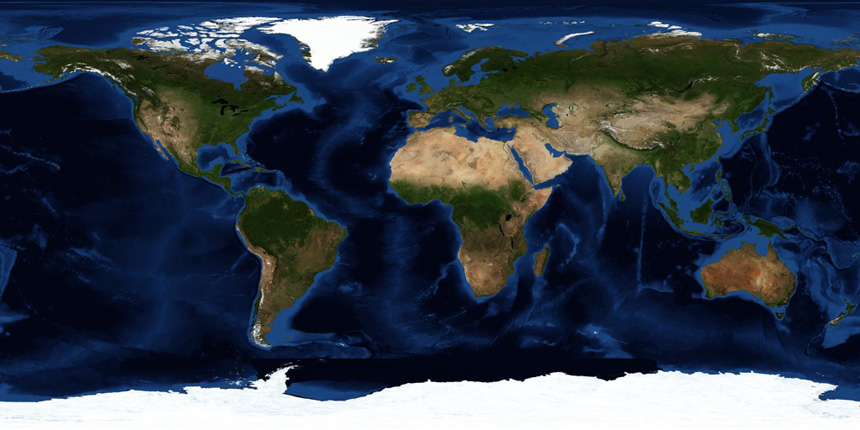
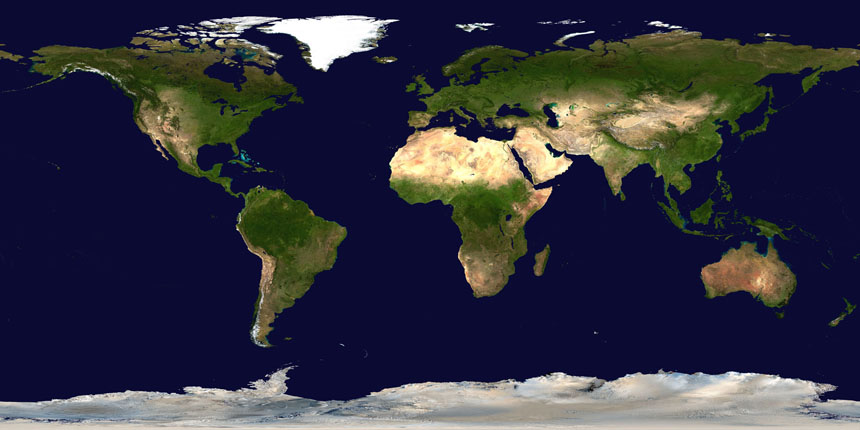
[Add] Added new satellite map. [Fix] Fixed group & ground station edit name error.

diff --git a/www/app/webroot/js/retroTrack.js b/www/app/webroot/js/retroTrack.js
@@ -218,7 +218,7 @@ var retroTrack = {
 					first_y_pos = pos_y;
 					first_loop = false;
 				} else {
-					if (Math.abs(pos_x-last_x_pos)<=200){
+					if (Math.abs(pos_x-last_x_pos)<=(tracker_canvas_width/3)){
 						// Loop didn't have to jump to other side of map, so draw. 
 						tracker_canvas_context.lineTo(pos_x, pos_y);
 					}
@@ -391,7 +391,7 @@ var retroTrack = {
 						first_x_pos = x_pos;
 						first_y_pos = y_pos;
 					} else {
-						if (Math.abs(x_pos-last_x_pos)<=200){
+						if (Math.abs(x_pos-last_x_pos)<=(tracker_canvas_width/3)){
 							// Loop didn't have to jump to other side of map, so draw. 
 							tracker_canvas_context.lineTo(x_pos, y_pos);
 						}
@@ -400,7 +400,7 @@ var retroTrack = {
 					
 					last_x_pos = x_pos;
 				}
-				if (Math.abs(x_pos-first_x_pos)<=200){
+				if (Math.abs(x_pos-first_x_pos)<=(tracker_canvas_width/3)){
 					tracker_canvas_context.lineTo(first_x_pos, first_y_pos);
 				}
 				
@@ -466,7 +466,7 @@ var retroTrack = {
 						first_x_pos = footprint_x_pos;
 						first_y_pos = footprint_y_pos;
 					} else {
-						if (Math.abs(footprint_x_pos-last_x_pos)<=200){
+						if (Math.abs(footprint_x_pos-last_x_pos)<=(tracker_canvas_width/3)){
 							// Loop didn't have to jump to other side of map, so draw. 
 							tracker_canvas_context.lineTo(footprint_x_pos, footprint_y_pos);
 						}
@@ -475,7 +475,7 @@ var retroTrack = {
 					
 					last_x_pos = footprint_x_pos;
                 }
-				if (Math.abs(footprint_x_pos-first_x_pos)<=200){
+				if (Math.abs(footprint_x_pos-first_x_pos)<=(tracker_canvas_width/3)){
 					tracker_canvas_context.lineTo(first_x_pos, first_y_pos);
 				}
 				

diff --git a/www/app/Controller/StationController.php b/www/app/Controller/StationController.php
@@ -140,32 +140,24 @@ class StationController extends AppController {
         // Load the station in question
         $station = $this->Station->find('first', array('conditions' => array('Station.id' => $this->params->id)));
         if($station){
-            // Make sure the station name isn't taken
-            $name_check = $this->Station->find('first', array('conditions' => array('Station.name' => $_POST['station_name'])));
-            if ($name_check){
-                // Name taken
-                $this->Session->setFlash('The ground station name \''.$station['Station']['name'].'\' is taken. Station names must be unique.', 'default', array('class' => 'alert alert-error'));
-                $this->redirect(array('controller' => 'station', 'action' => 'index', 'admin' => true));
-            } else {
-                // Edit the station
-                $station_changes['Station']['name'] = $_POST['station_name'];
-                $station_changes['Station']['longitude'] = $_POST['station_longitude'];
-                $station_changes['Station']['latitude'] = $_POST['station_latitude'];
-                $station_changes['Station']['description'] = $_POST['station_description'];
-                $station_changes['Station']['updated_on'] = date('Y-m-d H:i:s', time());
-                $station_changes['Station']['id'] = $this->params->id;
-                
-                $edit_attempt = $this->Station->save($station_changes);
-                if ($edit_attempt){
-                    $this->Session->setFlash('Ground station \''.$station['Station']['name'].'\' successfully edited', 'default', array('class' => 'alert alert-success'));
-                    CakeLog::write('admin', '[success] Ground station \''.$station['Station']['name'].'\' edited.');
-                    $this->redirect(array('controller' => 'station', 'action' => 'index', 'admin' => true));
-                } else {
-                    $this->Session->setFlash('There was an error editing the \''.$station['Station']['name'].'\' ground station.', 'default', array('class' => 'alert alert-error'));
-                    CakeLog::write('admin', '[error] Ground station \''.$station['Station']['name'].'\' could not be edited.');
-                    $this->redirect(array('controller' => 'station', 'action' => 'index', 'admin' => true));
-                }
-            }
+			// Edit the station
+			$station_changes['Station']['name'] = $_POST['station_name'];
+			$station_changes['Station']['longitude'] = $_POST['station_longitude'];
+			$station_changes['Station']['latitude'] = $_POST['station_latitude'];
+			$station_changes['Station']['description'] = $_POST['station_description'];
+			$station_changes['Station']['updated_on'] = date('Y-m-d H:i:s', time());
+			$station_changes['Station']['id'] = $this->params->id;
+			
+			$edit_attempt = $this->Station->save($station_changes);
+			if ($edit_attempt){
+				$this->Session->setFlash('Ground station \''.$station['Station']['name'].'\' successfully edited', 'default', array('class' => 'alert alert-success'));
+				CakeLog::write('admin', '[success] Ground station \''.$station['Station']['name'].'\' edited.');
+				$this->redirect(array('controller' => 'station', 'action' => 'index', 'admin' => true));
+			} else {
+				$this->Session->setFlash('There was an error editing the \''.$station['Station']['name'].'\' ground station.', 'default', array('class' => 'alert alert-error'));
+				CakeLog::write('admin', '[error] Ground station \''.$station['Station']['name'].'\' could not be edited.');
+				$this->redirect(array('controller' => 'station', 'action' => 'index', 'admin' => true));
+			}
         } else {
             $this->Session->setFlash('That ground station could not be found.', 'default', array('class' => 'alert alert-error'));
             $this->redirect(array('controller' => 'station', 'action' => 'index', 'admin' => true));

diff --git a/www/app/Controller/GroupController.php b/www/app/Controller/GroupController.php
@@ -158,37 +158,29 @@ class GroupController extends AppController {
         // Load the group in question
         $group = $this->Group->find('first', array('conditions' => array('Group.id' => $this->params->id)));
         if($group){
-            // Make sure the group name isn't taken
-            $name_check = $this->Group->find('first', array('conditions' => array('Group.name' => $_POST['group_name'])));
-            if ($name_check){
-                // Name taken
-                $this->Session->setFlash('The group name \''.$group['Group']['name'].'\' is taken. Satellite group names must be unique.', 'default', array('class' => 'alert alert-error'));
-                $this->redirect(array('controller' => 'group', 'action' => 'index', 'admin' => true));
-            } else {
-                // Edit the group
-                $satellite_ids = array();
-                
-                // Loop through and add all of the satellite IDs
-                foreach($_POST['satellites'] as $satellite_id){
-                    array_push($satellite_ids, $satellite_id);
-                }
-                
-                // Assemble query
-                $group_changes['Group'] = array('id' => $group['Group']['id'],'name' => $_POST['group_name'], 'description' => $_POST['group_description'], 'updated_on' =>date ('Y-m-d H:i:s', time()));
-                $group_changes['Satellite'] = array('Satellite' => $satellite_ids);
-                
-                $edit_group = $this->Group->save($group_changes);
-                
-                if ($edit_group){
-                    $this->Session->setFlash('The group has been edited successfully.', 'default', array('class' => 'alert alert-success'));
-                    CakeLog::write('admin', '[success] The group \''.$_POST['group_name'].'\' has been edited.');
-                } else {
-                    $this->Session->setFlash('An error occured while editing that group. Please try again.', 'default', array('class' => 'alert alert-error'));
-                    CakeLog::write('admin', '[error] Error editing the group \''.$_POST['group_name'].'\'.');
-                }
-                
-                $this->redirect(array('controller' => 'group', 'action' => 'index'));
-            }
+			// Edit the group
+			$satellite_ids = array();
+			
+			// Loop through and add all of the satellite IDs
+			foreach($_POST['satellites'] as $satellite_id){
+				array_push($satellite_ids, $satellite_id);
+			}
+			
+			// Assemble query
+			$group_changes['Group'] = array('id' => $group['Group']['id'],'name' => $_POST['group_name'], 'description' => $_POST['group_description'], 'updated_on' =>date ('Y-m-d H:i:s', time()));
+			$group_changes['Satellite'] = array('Satellite' => $satellite_ids);
+			
+			$edit_group = $this->Group->save($group_changes);
+			
+			if ($edit_group){
+				$this->Session->setFlash('The group has been edited successfully.', 'default', array('class' => 'alert alert-success'));
+				CakeLog::write('admin', '[success] The group \''.$_POST['group_name'].'\' has been edited.');
+			} else {
+				$this->Session->setFlash('An error occured while editing that group. Please try again.', 'default', array('class' => 'alert alert-error'));
+				CakeLog::write('admin', '[error] Error editing the group \''.$_POST['group_name'].'\'.');
+			}
+			
+			$this->redirect(array('controller' => 'group', 'action' => 'index'));
         } else {
             $this->Session->setFlash('That group could not be found.', 'default', array('class' => 'alert alert-error'));
             $this->redirect(array('controller' => 'group', 'action' => 'index', 'admin' => true));
